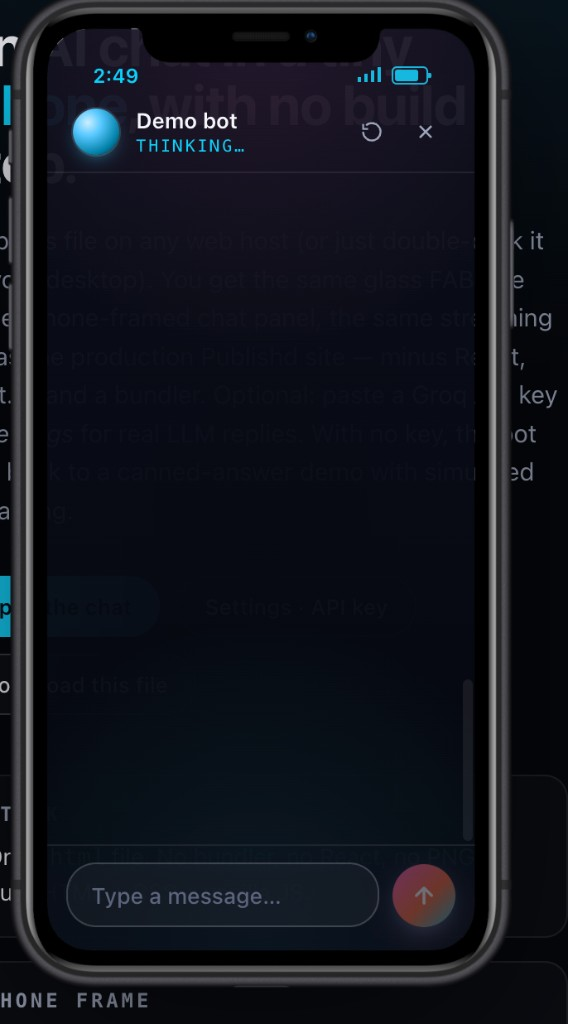
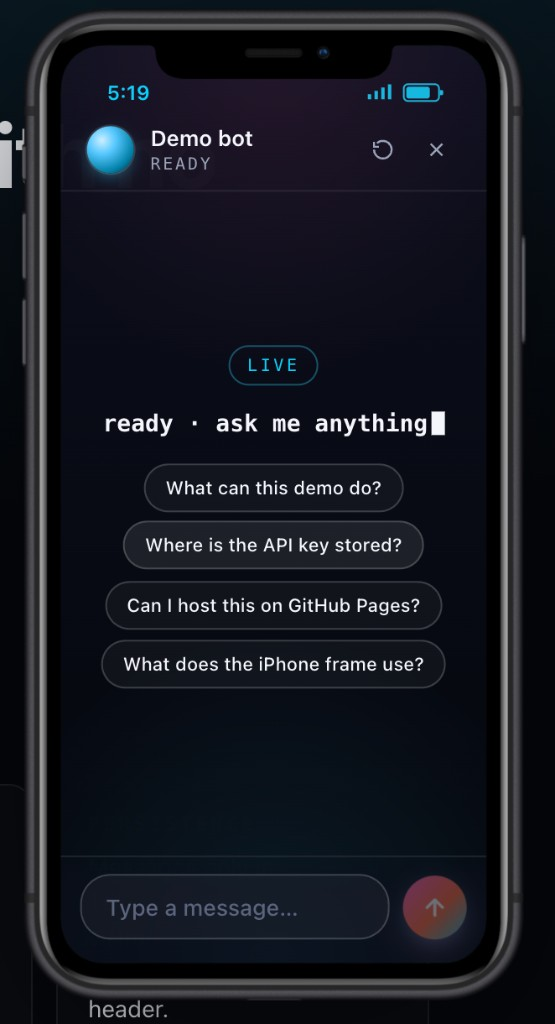
docs(readme): promote chatbot pitch to repo front page
- New root README aimed at the GitHub audience: badges, hero screenshot,
  60-second quickstart table, embed snippet, env var table, RAG notes,
  project layout, "why free" section, and a slot for the demo video.
- Swap docs/images/chat-widget-preview.png to the cleaner LIVE/empty-state
  screenshot (suggestion chips visible, no overflow).

diff --git a/README.md b/README.md
@@ -1,30 +1,140 @@
-# Publishd — publishd.app
+<h1 align="center">Best free business AI chatbot — drop-in, ready to go (2026)</h1>
 
-> You built it. We ship it.
+<p align="center">
+  <strong>One HTML file · streaming AI in an iPhone frame · no visitor API key</strong><br/>
+  Built for small business sites that want a real chat assistant without the SaaS lock-in.
+</p>
 
-Next.js 15 + Tailwind v4 site. Deploys to Cloudflare Workers via OpenNext.
+<p align="center">
+  <a href="https://publishd.app/chat-demo.html"><img alt="Live demo" src="https://img.shields.io/badge/live%20demo-publishd.app%2Fchat--demo.html-00d4ff?style=for-the-badge"/></a>
+  <a href="https://console.groq.com/"><img alt="Powered by Groq" src="https://img.shields.io/badge/inference-Groq%20(free%20tier)-ff6b3d?style=for-the-badge"/></a>
+  <img alt="Stack" src="https://img.shields.io/badge/stack-Next.js%20%C2%B7%20Cloudflare-0b0f1c?style=for-the-badge"/>
+  <img alt="License" src="https://img.shields.io/badge/license-MIT-9aa3b8?style=for-the-badge"/>
+</p>
 
-## Local dev
+<p align="center">
+  <a href="https://publishd.app/chat-demo.html">
+    <img src="docs/images/chat-widget-preview.png" alt="Streaming AI chat in an iPhone frame" width="380"/>
+  </a>
+</p>
 
-```bash
-npm install
-cp .env.example .env.local
-# fill STRIPE_SECRET_KEY, GROQ_API_KEY, NEXT_PUBLIC_SITE_URL
-npm run dev
+<p align="center">
+  <em>Single .html file. Glass FAB → iPhone-framed chat panel → streaming answers.</em>
+</p>
+
+---
+
+## Watch it run (30 seconds)
+
+> **Drag your `.mp4` here when editing the README on GitHub** — GitHub will upload to its CDN and replace this line with a `<video src="...">` tag automatically.
+> Or: upload a `.mp4` to a [GitHub release](https://github.com/HeavenFYouMissed/best-free-business-ai-chatbot-ready-to-go-2026/releases/new) and paste the asset URL into the `src=""` below.
+
+<!--
+<video src="REPLACE_WITH_RELEASE_ASSET_URL.mp4" controls width="640" muted playsinline poster="docs/images/chat-widget-preview.png">
+  Your browser doesn't render embedded video — <a href="REPLACE_WITH_RELEASE_ASSET_URL.mp4">download the demo here</a>.
+</video>
+-->
+
+---
+
+## What this is
+
+A **production** chat surface I install on client websites — extracted as a single static HTML file that anyone can host. The widget POSTs to a tiny streaming endpoint (`/api/chat`) so visitors **never see or paste an API key**. Your Groq credential lives only in server environment variables, the same way the live site at [publishd.app](https://publishd.app) runs.
+
+- **One file** — `public/chat-demo.html`. No bundler, no React, no framework.
+- **Real iPhone bezel** — transparent PNG, embedded as base64.
+- **Streaming text** — token-by-token, same backend as the in-app assistant.
+- **Server-held key** — Groq stays on the server. Free tier is plenty for a brochure site.
+- **Falls back gracefully** — offline / blocked → short canned reply, never a broken UI.
+
+## Try it in 60 seconds
+
+| Step | Action |
+|------|--------|
+| 1 | `git clone` this repo and run `npm install` |
+| 2 | Add `GROQ_API_KEY` to `.env.local` ([create a free Groq key](https://console.groq.com/)) |
+| 3 | `npm run dev` → open **http://localhost:3000/chat-demo.html** |
+
+For live, hosted: visit **[publishd.app/chat-demo.html](https://publishd.app/chat-demo.html)**.
+
+## Embed on another site
+
+Drop the file on **any static host** (GitHub Pages, Netlify, S3, plain Apache):
+
+```html
+<iframe src="https://publishd.app/chat-demo.html" style="border:0;width:100%;height:100vh"></iframe>
 ```
 
-## Deploy
+…or open it directly. It will POST to `https://publishd.app/api/chat` (or your fork's URL after deploy).
+
+For cross-origin embeds, set **`CHAT_WIDGET_ALLOWED_ORIGINS`** on the API host:
 
 ```bash
-npx wrangler login
-npx wrangler secret put STRIPE_SECRET_KEY
-npx wrangler secret put STRIPE_WEBHOOK_SECRET
-npx wrangler secret put GROQ_API_KEY
-npx wrangler secret put INTAKE_WEBHOOK_URL
+# Cloudflare Workers (this project)
+npx wrangler secret put CHAT_WIDGET_ALLOWED_ORIGINS
+# value: *    (any site)
+# value: https://your-site.com,https://www.your-site.com   (allowlist)
+```
+
+Same-origin (`publishd.app`, `localhost:3000`) needs **no** CORS config.
+
+## Environment variables
+
+| Variable | Required | Purpose |
+|----------|----------|---------|
+| `GROQ_API_KEY` | Yes | Server-side Groq inference |
+| `CHAT_WIDGET_ALLOWED_ORIGINS` | Only for cross-origin embeds | CORS allowlist or `*` |
+| `INTAKE_WEBHOOK_URL` | Optional | Forward chat transcripts somewhere |
+| `NEXT_PUBLIC_SITE_URL` | Optional | Used in OG / canonical tags |
+
+**Never put `GROQ_API_KEY` in the HTML file or client JS.** The point of this widget is that the key stays server-side.
+
+## RAG / your own knowledge
+
+The default API route streams from Groq with a fixed system prompt. **Retrieval (RAG) is not included out of the box** — add it in `app/api/chat/route.ts`:
+
+1. Embed your docs (pgvector, Cloudflare Vectorize, Pinecone — your call).
+2. On each request, retrieve top-k chunks for the latest user message.
+3. Prepend those chunks as a `system` message before the model call.
+
+Full notes: **[`docs/chat-widget-setup.md`](docs/chat-widget-setup.md)**.
+
+## Project layout
+
+```
+public/chat-demo.html        ← the widget (single file, share / embed this)
+app/api/chat/route.ts        ← streaming proxy (server-held key + CORS)
+lib/groq.ts                  ← Groq client + system prompt
+docs/chat-widget-setup.md    ← deeper setup, RAG, deployment
+docs/images/                 ← screenshots used in this README
+```
+
+The rest is a normal Next.js 15 / Cloudflare Workers site (the marketing page that ships the widget). You can rip out everything except those four paths if you only want the chatbot.
+
+## Deploy your own
+
+This repo deploys to Cloudflare Workers with one command:
+
+```bash
 npm run deploy
 ```
 
-Bind the custom domain in the Cloudflare dashboard:
-**Workers & Pages → publishd → Settings → Domains & Routes → Add custom domain →** `publishd.app` and `www.publishd.app`.
+Prefer Vercel / Netlify? It's a stock Next 15 app — `next build` works the same. Set `GROQ_API_KEY` (and optionally `CHAT_WIDGET_ALLOWED_ORIGINS`) in the host's secrets UI and push.
 
-Email forwarding: Cloudflare Email Routing → route `daniel@publishd.app` to your inbox.
+## Why "best" + "free"?
+
+Most "free" chatbot widgets are **lead magnets** for paid SaaS tiers — usage caps, branding, your data on someone else's server. This one is the opposite:
+
+- The code is yours. MIT.
+- Inference uses **your** Groq key (their free tier is real, generous, and fast).
+- Hosting is yours (Cloudflare's free tier ships the worker + 100k requests/day).
+- No analytics ping, no telemetry, no upsell modal.
+
+If you want a hands-off install (custom branding, RAG over your docs, CRM hand-off), that's what [publishd.app/ai-chatbots](https://publishd.app/ai-chatbots) is for.
+
+---
+
+<p align="center">
+  Built by <a href="https://publishd.app">Daniel Castellani · Publishd</a> · Connecticut · 2026<br/>
+  Questions / bug reports: <a href="mailto:daniel@publishd.app">daniel@publishd.app</a>
+</p>
